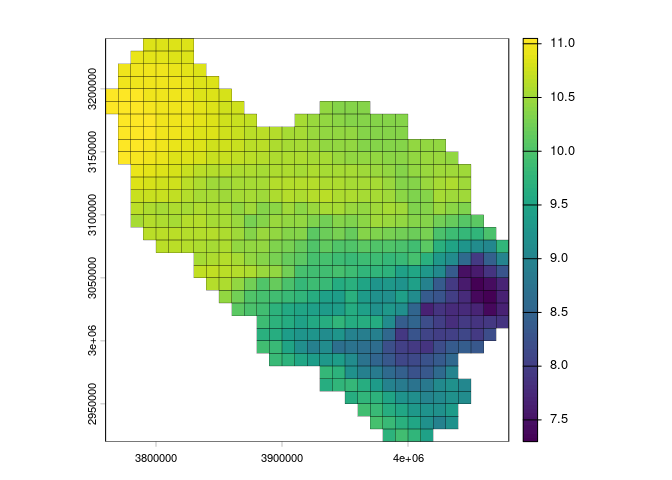
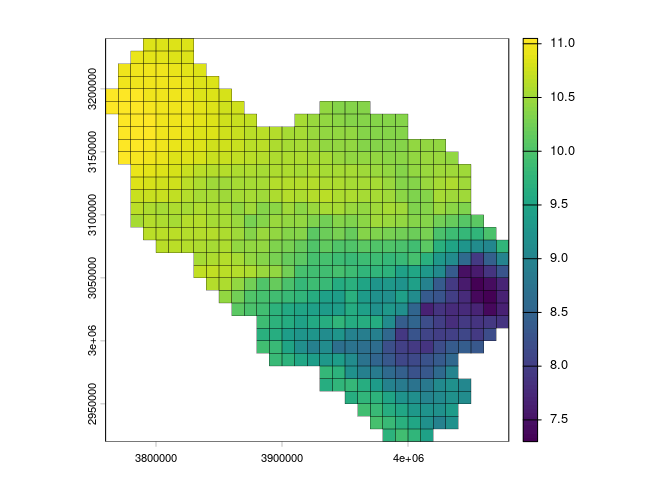
improve text

Changed region(s): [[0.25, 0.25, 0.3125, 0.2812], [0.1875, 0.25, 0.2188, 0.2812]]

diff --git a/README.md b/README.md
@@ -5,22 +5,23 @@
 
 Most global-coverage raster layers containing variables used in species
 distribution models come in unprojected longitude-latitude coordinates,
-with a nominal spatial resolution like “*approximately 1x1 km2 at the
-equator*”. One problem is that lon-lat pixels are not equal-area, and
-they’re not really 1x1-km2 either (or whatever their nominal resolution
-is): Because the longitude meridians converge towards the poles, lon-lat
-pixels cover progressively smaller areas as we move away from the
-Equator, and they are already considerably smaller than their nominal
-resolution across temperate areas like Europe. Their actual sizes can be
-checked e.g. with the `terra::cellSize()` function.
+with a nominal spatial resolution like “*approximately 1x1
+km<sup>2</sup> at the equator*”. One problem is that lon-lat pixels are
+not equal-area, and they’re not 1x1-km<sup>2</sup> either (or whatever
+their nominal resolution is): as the longitude meridians converge
+towards the poles, lon-lat pixels cover progressively smaller areas as
+we move away from the Equator, and they are already considerably smaller
+than their nominal resolution across temperate regions like Europe.
+Their actual sizes can be checked e.g. with the `terra::cellSize()`
+function.
 
 If we want our raster variables on a grid of pixels that matches an
 actually equal-area grid within a given region (such as the [EEA
 reference
 grid](https://www.eea.europa.eu/en/datahub/datahubitem-view/3c362237-daa4-45e2-8c16-aaadfb1a003b)
-in Europe), we can use the `regrid()` function of the `regridR` package
-to convert raster layers into such equal-area grid. Below is a worked
-example. We start by downloading some variable layers from the [CHELSA
+in Europe), we can use the `regrid()` function of package `regridR` to
+convert raster layers into such equal-area grid. Below is a worked
+example. We start by downloading some climate layers from the [CHELSA
 website](https://www.chelsa-climate.org/), using the `downloadif()`
 function also included in the `regridR` package. This will download
 files if they haven’t already been (completely) downloaded and saved in
@@ -91,9 +92,8 @@ terra::plot(terra::project(EEAgrid, layers), add = TRUE)
 
 <img src="man/figures/README-unnamed-chunk-3-1.png" alt="" width="100%" />
 
-So, we’ll use the `regrid()` function of the `regridR` package to get
-the climate layers on a raster grid whose pixels match the input EEA
-grid cells:
+So, we’ll use the `regrid()` function of `regridR` to get the climate
+layers on a raster grid whose pixels match the input polygon grid cells:
 
 ``` r
 # RE-GRID LAYERS ----
@@ -132,7 +132,7 @@ align with the input EEA `grid`:
 ``` r
 terra::plot(layers_regrid[[1]])
 
-terra::plot(EEAgrid, lwd = 0.2, add = TRUE)
+terra::plot(EEAgrid, lwd = 0.3, add = TRUE)
 ```
 
 <img src="man/figures/README-unnamed-chunk-6-1.png" alt="" width="100%" />
